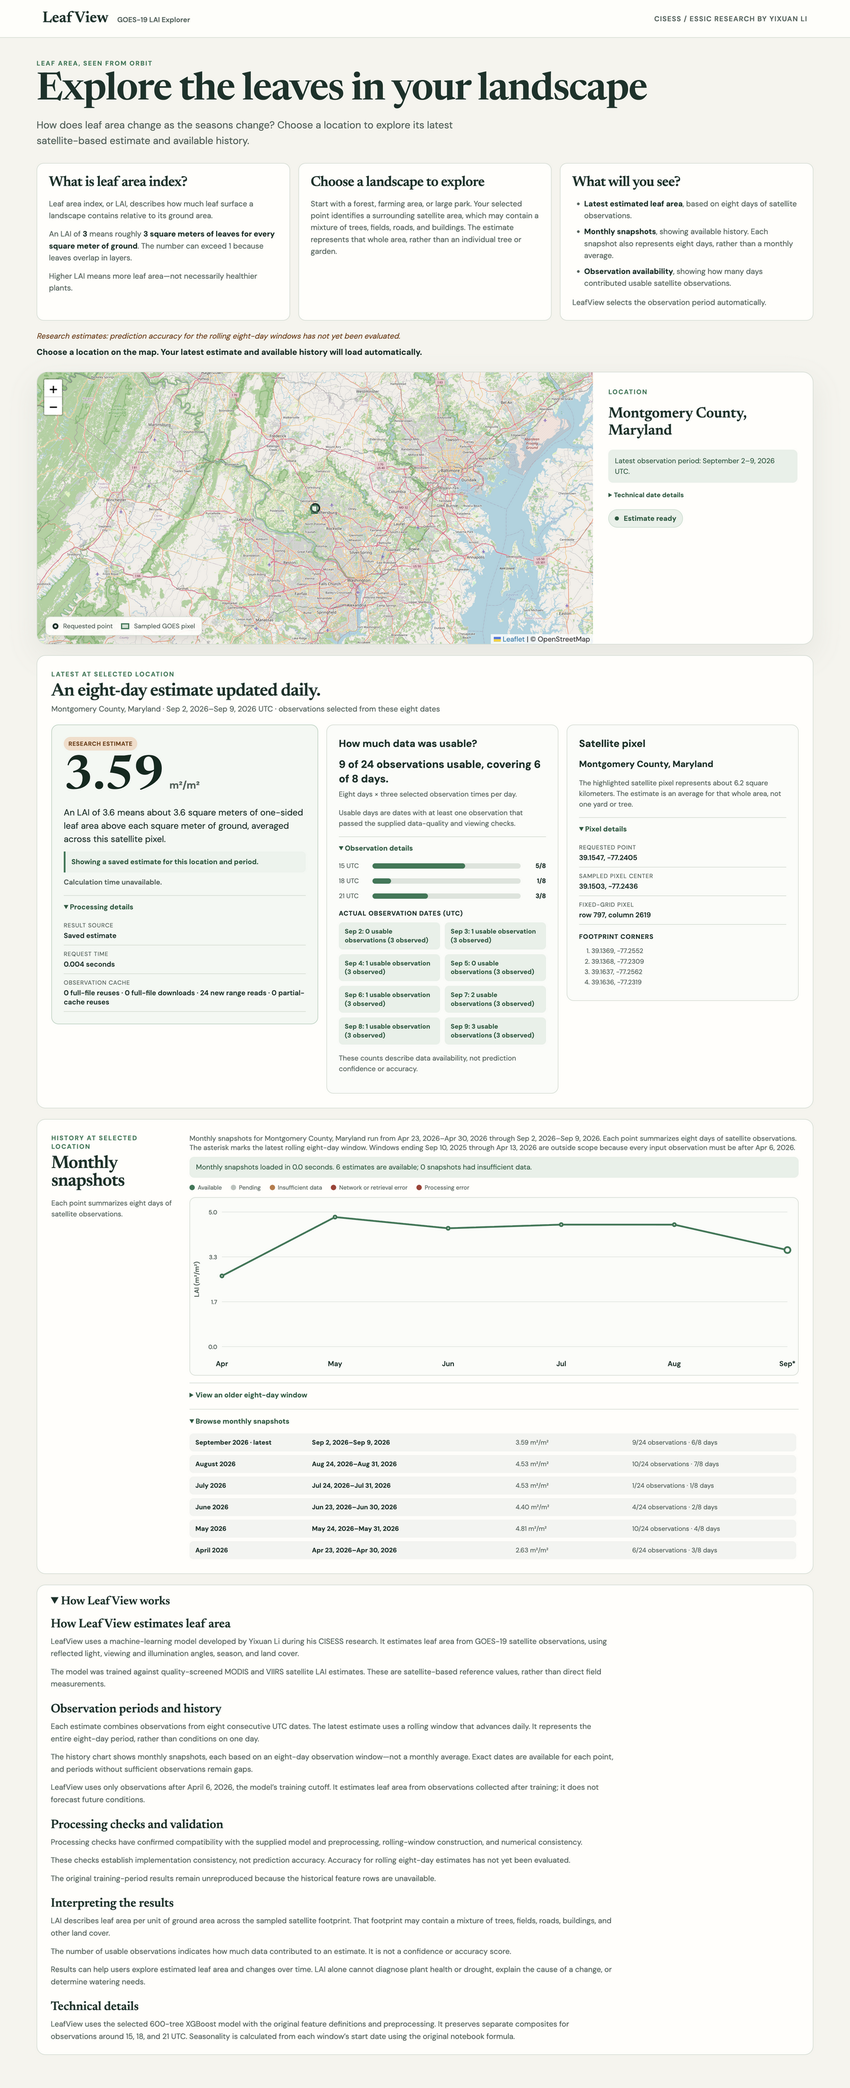
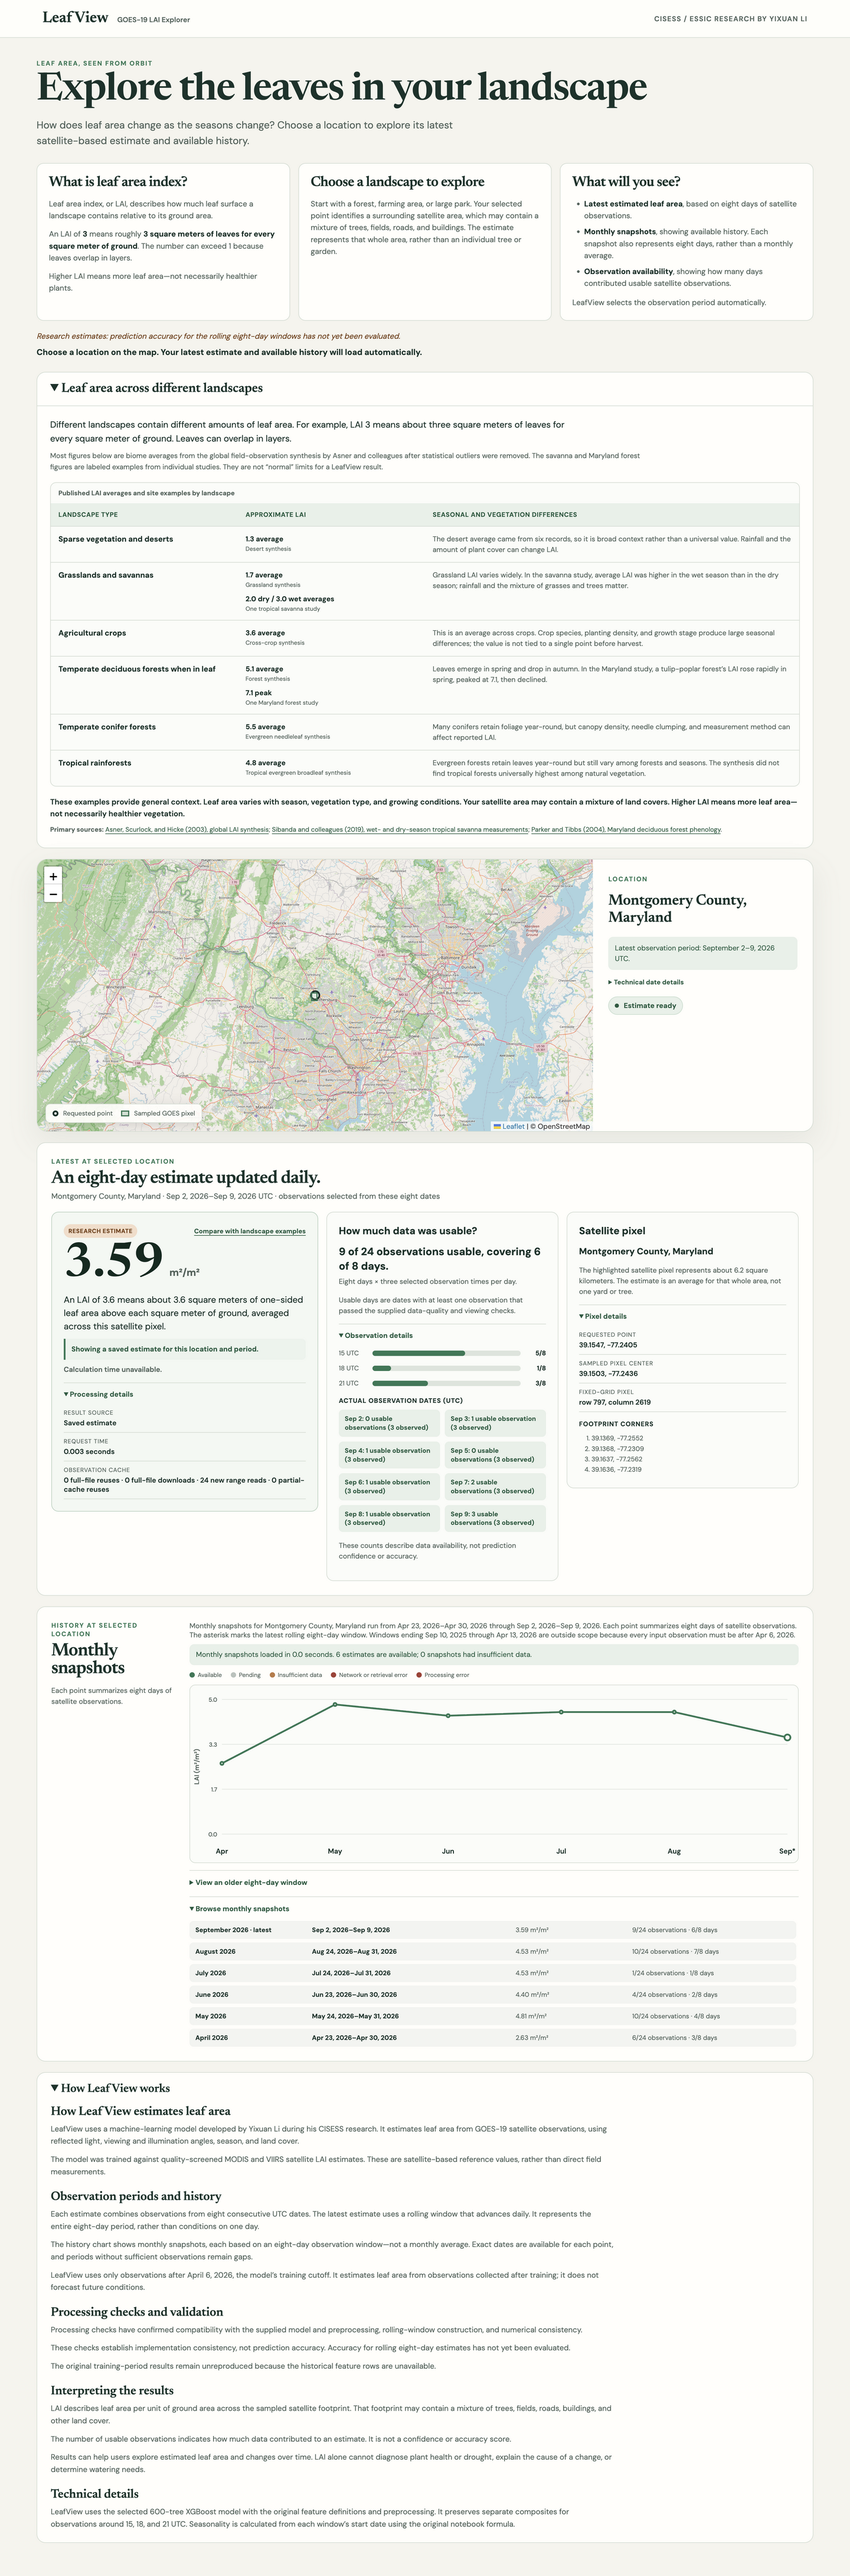
Add landscape LAI reference guide

diff --git a/templates/index.html b/templates/index.html
@@ -49,6 +49,60 @@
       <p class="intro-begin"><strong>Choose a location on the map. Your latest estimate and available history will load automatically.</strong></p>
     </section>
 
+    <details id="landscape-guide" class="landscape-guide">
+      <summary>Leaf area across different landscapes</summary>
+      <div class="landscape-guide-content">
+        <p class="landscape-guide-intro">Different landscapes contain different amounts of leaf area. For example, LAI 3 means about three square meters of leaves for every square meter of ground. Leaves can overlap in layers.</p>
+        <p class="landscape-guide-basis">Most figures below are biome averages from the global field-observation synthesis by Asner and colleagues after statistical outliers were removed. The savanna and Maryland forest figures are labeled examples from individual studies. They are not “normal” limits for a LeafView result.</p>
+        <div class="landscape-table-wrap" role="region" aria-label="Landscape leaf area reference table" tabindex="0">
+          <table class="landscape-table">
+            <caption>Published LAI averages and site examples by landscape</caption>
+            <thead>
+              <tr>
+                <th scope="col">Landscape type</th>
+                <th scope="col">Approximate LAI</th>
+                <th scope="col">Seasonal and vegetation differences</th>
+              </tr>
+            </thead>
+            <tbody>
+              <tr>
+                <th scope="row">Sparse vegetation and deserts</th>
+                <td data-label="Approximate LAI"><strong>1.3 average</strong><span>Desert synthesis</span></td>
+                <td data-label="What changes it">The desert average came from six records, so it is broad context rather than a universal value. Rainfall and the amount of plant cover can change LAI.</td>
+              </tr>
+              <tr>
+                <th scope="row">Grasslands and savannas</th>
+                <td data-label="Approximate LAI"><strong>1.7 average</strong><span>Grassland synthesis</span><strong>2.0 dry / 3.0 wet averages</strong><span>One tropical savanna study</span></td>
+                <td data-label="What changes it">Grassland LAI varies widely. In the savanna study, average LAI was higher in the wet season than in the dry season; rainfall and the mixture of grasses and trees matter.</td>
+              </tr>
+              <tr>
+                <th scope="row">Agricultural crops</th>
+                <td data-label="Approximate LAI"><strong>3.6 average</strong><span>Cross-crop synthesis</span></td>
+                <td data-label="What changes it">This is an average across crops. Crop species, planting density, and growth stage produce large seasonal differences; the value is not tied to a single point before harvest.</td>
+              </tr>
+              <tr>
+                <th scope="row">Temperate deciduous forests when in leaf</th>
+                <td data-label="Approximate LAI"><strong>5.1 average</strong><span>Forest synthesis</span><strong>7.1 peak</strong><span>One Maryland forest study</span></td>
+                <td data-label="What changes it">Leaves emerge in spring and drop in autumn. In the Maryland study, a tulip-poplar forest’s LAI rose rapidly in spring, peaked at 7.1, then declined.</td>
+              </tr>
+              <tr>
+                <th scope="row">Temperate conifer forests</th>
+                <td data-label="Approximate LAI"><strong>5.5 average</strong><span>Evergreen needleleaf synthesis</span></td>
+                <td data-label="What changes it">Many conifers retain foliage year-round, but canopy density, needle clumping, and measurement method can affect reported LAI.</td>
+              </tr>
+              <tr>
+                <th scope="row">Tropical rainforests</th>
+                <td data-label="Approximate LAI"><strong>4.8 average</strong><span>Tropical evergreen broadleaf synthesis</span></td>
+                <td data-label="What changes it">Evergreen forests retain leaves year-round but still vary among forests and seasons. The synthesis did not find tropical forests universally highest among natural vegetation.</td>
+              </tr>
+            </tbody>
+          </table>
+        </div>
+        <p class="landscape-guide-note">These examples provide general context. Leaf area varies with season, vegetation type, and growing conditions. Your satellite area may contain a mixture of land covers. Higher LAI means more leaf area—not necessarily healthier vegetation.</p>
+        <p class="landscape-sources"><strong>Primary sources:</strong> <a href="https://doi.org/10.1046/j.1466-822X.2003.00026.x">Asner, Scurlock, and Hicke (2003), global LAI synthesis</a>; <a href="https://doi.org/10.3390/rs11070829">Sibanda and colleagues (2019), wet- and dry-season tropical savanna measurements</a>; <a href="https://doi.org/10.1093/forestscience/50.3.387">Parker and Tibbs (2004), Maryland deciduous forest phenology</a>.</p>
+      </div>
+    </details>
+
     <section class="workspace" aria-label="Selected query">
       <div class="map-wrap">
         <div id="map"></div>
@@ -82,7 +136,7 @@
       <div id="example-meta" class="example-meta">Choose a location to load its latest complete window.</div>
       <div class="example-grid">
         <article class="result-card">
-          <div class="result-label"><span id="result-badge" class="badge">Research estimate</span></div>
+          <div class="result-label"><span id="result-badge" class="badge">Research estimate</span><a id="compare-landscapes" href="#landscape-guide">Compare with landscape examples</a></div>
           <div class="lai-measure"><span id="example-lai" class="lai-value">—</span><span id="lai-units" class="lai-units" hidden>m²/m²</span></div>
           <p id="lai-explanation" class="lead-explanation">Loading the cached result…</p>
           <p id="calculation-source" class="calculation-source">Checking how this result was calculated…</p>

diff --git a/static/app.css b/static/app.css
@@ -38,6 +38,32 @@ h3 { margin: 0 0 12px; font-size: 17px; }
 .intro-caveat { max-width: 900px; margin: 0 0 8px; color: var(--warn); font-size: 13px; line-height: 1.55; }
 .intro-begin { margin: 0; color: var(--ink); font-size: 14px; }
 
+.landscape-guide { margin: 0 0 18px; overflow: hidden; border: 1px solid var(--line); border-radius: 15px; background: var(--card); }
+.landscape-guide > summary { cursor: pointer; padding: 17px 22px; color: var(--ink); font: 600 22px Newsreader, serif; }
+.landscape-guide[open] > summary { border-bottom: 1px solid var(--line); }
+.landscape-guide-content { padding: 20px 22px 22px; }
+.landscape-guide-intro { max-width: 900px; margin: 0 0 8px; color: var(--ink); font-size: 15px; line-height: 1.55; }
+.landscape-guide-basis { max-width: 1000px; margin: 0 0 17px; color: var(--muted); font-size: 12px; line-height: 1.55; }
+.landscape-table-wrap { overflow-x: auto; border: 1px solid var(--line); border-radius: 10px; background: #fbfcf8; }
+.landscape-table-wrap:focus-visible { outline: 3px solid #83aa91; outline-offset: 2px; }
+.landscape-table { width: 100%; min-width: 780px; border-collapse: collapse; table-layout: fixed; }
+.landscape-table caption { padding: 10px 13px; color: var(--muted); font-size: 11px; font-weight: 700; text-align: left; }
+.landscape-table th, .landscape-table td { padding: 12px 13px; border-bottom: 1px solid var(--line); text-align: left; vertical-align: top; }
+.landscape-table thead th { background: var(--leaf-soft); color: var(--leaf-dark); font-size: 11px; letter-spacing: .04em; text-transform: uppercase; }
+.landscape-table thead th:nth-child(1) { width: 25%; }
+.landscape-table thead th:nth-child(2) { width: 25%; }
+.landscape-table tbody th { color: var(--ink); font-size: 13px; line-height: 1.4; }
+.landscape-table td { color: var(--muted); font-size: 12px; line-height: 1.5; }
+.landscape-table tbody tr:last-child th, .landscape-table tbody tr:last-child td { border-bottom: 0; }
+.landscape-table td strong, .landscape-table td span { display: block; }
+.landscape-table td strong { color: var(--ink); }
+.landscape-table td strong:not(:first-child) { margin-top: 8px; }
+.landscape-table td span { margin-top: 1px; font-size: 10px; line-height: 1.35; }
+.landscape-guide-note { margin: 16px 0 8px; color: var(--ink); font-size: 13px; font-weight: 600; line-height: 1.55; }
+.landscape-sources { margin: 0; color: var(--muted); font-size: 11px; line-height: 1.6; }
+.landscape-sources a, .result-label a { color: var(--leaf-dark); text-underline-offset: 3px; }
+.landscape-sources a:hover, .result-label a:hover { color: var(--ink); }
+
 .workspace { display: grid; grid-template-columns: minmax(0, 2.15fr) minmax(310px, .85fr); align-items: stretch; background: var(--card); border: 1px solid var(--line); border-radius: 18px; overflow: hidden; box-shadow: 0 18px 50px #17332a12; }
 .map-wrap { position: relative; min-width: 0; min-height: 460px; overflow: hidden; background: #dfe8dc; }
 #map { position: absolute; inset: 0; width: 100%; height: 100%; background: #dfe8dc; }
@@ -87,7 +113,8 @@ button.secondary:hover:not(:disabled) { background: transparent; color: var(--in
 .example-grid { display: grid; grid-template-columns: 1.15fr 1fr 1fr; gap: 14px; align-items: start; }
 .example-grid article { min-width: 0; padding: 20px; border: 1px solid var(--line); border-radius: 12px; background: #fbfcf8; }
 .result-card { border-color: #b8d2c0 !important; background: #f3f8f2 !important; }
-.result-label { display: flex; justify-content: flex-start; }
+.result-label { display: flex; flex-wrap: wrap; align-items: center; justify-content: space-between; gap: 8px 12px; }
+.result-label a { font-size: 11px; font-weight: 700; }
 .badge { display: inline-flex; padding: 5px 8px; border-radius: 999px; background: #f4ddc8; color: var(--warn); font-size: 10px; font-weight: 700; letter-spacing: .04em; text-transform: uppercase; white-space: nowrap; }
 .lai-measure { display: flex; align-items: baseline; column-gap: 9px; margin: 15px 0 9px; }
 .lai-value { color: #10291f; font: 600 clamp(58px, 6vw, 78px)/.8 Newsreader, serif; font-variant-numeric: tabular-nums; }
@@ -195,6 +222,20 @@ dd { margin: 3px 0 0; color: var(--ink); font-weight: 600; font-size: 12px; font
   .intro-guide article { padding: 17px; }
   .intro-guide article:last-child { grid-column: auto; }
   .intro-guide h2 { font-size: 23px; }
+  .landscape-guide > summary { padding: 15px 17px; font-size: 20px; }
+  .landscape-guide-content { padding: 17px; }
+  .landscape-guide-intro { font-size: 14px; }
+  .landscape-table-wrap { overflow: visible; border: 0; background: transparent; }
+  .landscape-table { min-width: 0; }
+  .landscape-table caption { display: block; width: 100%; padding: 0 0 10px; }
+  .landscape-table thead { position: absolute; width: 1px; height: 1px; overflow: hidden; clip: rect(0 0 0 0); clip-path: inset(50%); white-space: nowrap; }
+  .landscape-table, .landscape-table tbody, .landscape-table tr, .landscape-table th, .landscape-table td { display: block; width: 100%; }
+  .landscape-table tbody { display: grid; gap: 9px; }
+  .landscape-table tbody tr { padding: 13px; border: 1px solid var(--line); border-radius: 9px; background: #fbfcf8; }
+  .landscape-table tbody th, .landscape-table tbody td { padding: 0; border: 0; }
+  .landscape-table tbody th { margin-bottom: 9px; font-size: 14px; }
+  .landscape-table tbody td + td { margin-top: 11px; padding-top: 10px; border-top: 1px solid var(--line); }
+  .landscape-table tbody td::before { content: attr(data-label); display: block; margin-bottom: 4px; color: var(--leaf); font-size: 9px; font-weight: 700; letter-spacing: .07em; text-transform: uppercase; }
   .workspace, .example-grid, .trend-card { grid-template-columns: 1fr; }
   .map-wrap { height: 300px; min-height: 300px; }
   .map-legend { right: 10px; bottom: 27px; left: 10px; justify-content: center; flex-wrap: wrap; }

diff --git a/static/app.js b/static/app.js
@@ -690,6 +690,16 @@ new ResizeObserver(entries => {
   if (currentHistory && width && Math.abs(width - renderedTrendWidth) > 1) renderHistory(currentHistory);
 }).observe(byId("trend-plot"));
 
+byId("compare-landscapes").addEventListener("click", event => {
+  event.preventDefault();
+  const guide = byId("landscape-guide");
+  guide.open = true;
+  guide.scrollIntoView({
+    behavior: window.matchMedia("(prefers-reduced-motion: reduce)").matches ? "auto" : "smooth",
+    block: "start"
+  });
+  guide.querySelector("summary").focus({ preventScroll: true });
+});
 byId("retry-estimate").addEventListener("click", () => {
   const retry = estimateRetryAction;
   if (retry) retry();

diff --git a/tests/test_core.py b/tests/test_core.py
@@ -399,6 +399,59 @@ def test_ui_uses_location_first_latest_estimate_and_query_bound_progressive_hist
     assert template.count('id="result-badge"') == 1
 
 
+def test_ui_has_source_labeled_beginner_landscape_reference_guide():
+    root = Path(__file__).parents[1]
+    source = (root / "static/app.js").read_text(encoding="utf-8")
+    styles = (root / "static/app.css").read_text(encoding="utf-8")
+    template = (root / "templates/index.html").read_text(encoding="utf-8")
+
+    assert 'id="landscape-guide"' in template
+    assert "Leaf area across different landscapes" in template
+    assert (
+        "Different landscapes contain different amounts of leaf area. For example, LAI 3 "
+        "means about three square meters of leaves for every square meter of ground. "
+        "Leaves can overlap in layers."
+    ) in template
+    for landscape in (
+        "Sparse vegetation and deserts",
+        "Grasslands and savannas",
+        "Agricultural crops",
+        "Temperate deciduous forests when in leaf",
+        "Temperate conifer forests",
+        "Tropical rainforests",
+    ):
+        assert landscape in template
+
+    for labeled_value in (
+        "1.3 average",
+        "1.7 average",
+        "2.0 dry / 3.0 wet averages",
+        "3.6 average",
+        "5.1 average",
+        "7.1 peak",
+        "5.5 average",
+        "4.8 average",
+    ):
+        assert labeled_value in template
+
+    assert "They are not “normal” limits for a LeafView result." in template
+    assert (
+        "These examples provide general context. Leaf area varies with season, vegetation "
+        "type, and growing conditions. Your satellite area may contain a mixture of land "
+        "covers. Higher LAI means more leaf area—not necessarily healthier vegetation."
+    ) in template
+    assert "https://doi.org/10.1046/j.1466-822X.2003.00026.x" in template
+    assert "https://doi.org/10.3390/rs11070829" in template
+    assert "https://doi.org/10.1093/forestscience/50.3.387" in template
+
+    assert 'id="compare-landscapes" href="#landscape-guide"' in template
+    assert 'byId("compare-landscapes").addEventListener("click"' in source
+    assert "guide.open = true" in source
+    assert 'guide.querySelector("summary").focus' in source
+    assert "@media (max-width: 680px)" in styles
+    assert ".landscape-table tbody tr" in styles
+
+
 def test_result_support_and_calculation_copy_are_derived_from_metadata():
     root = Path(__file__).parents[1]
     result = deepcopy(json.loads(
